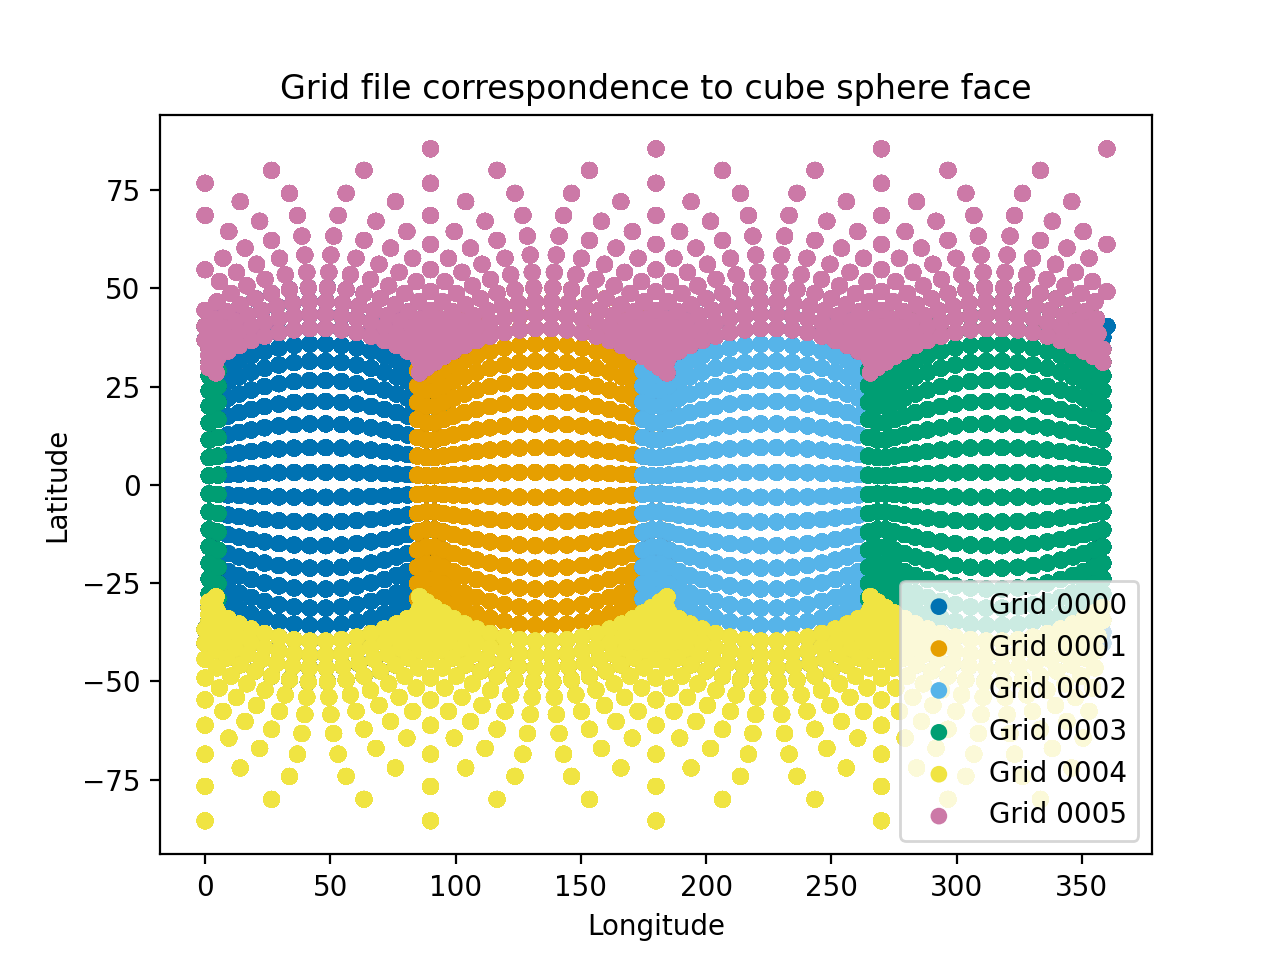
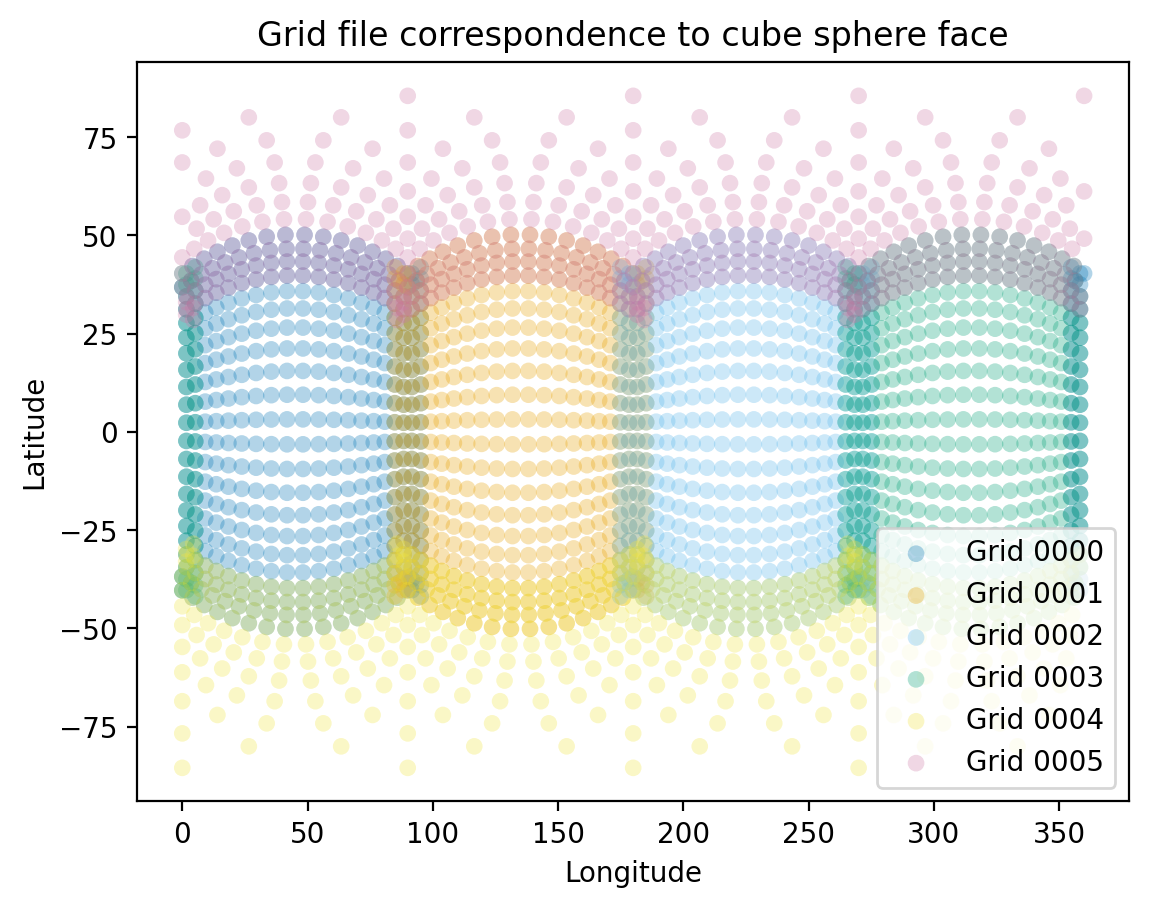
Decrease the opacity of plot_cube scatter to show overlap

diff --git a/scripts/plot_cube.py b/scripts/plot_cube.py
@@ -18,13 +18,14 @@ fig, ax = plt.subplots()
 
 for ifile, this_file in enumerate(files):
     f = netCDF4.Dataset(this_file)
-    lons = f.variables['Longitude'][:]*radians_to_degrees
-    lats = f.variables['Latitude'][:]*radians_to_degrees
-    ax.scatter(lons, lats, c=colors[ifile], edgecolors='none', label='Grid ' + str(ifile).zfill(4))
+    # Slice the longitude and latitude arrays to only include the lowest altitude
+    lons = f.variables['Longitude'][:, :, 0]*radians_to_degrees
+    lats = f.variables['Latitude'][:, :, 0]*radians_to_degrees
+    ax.scatter(lons, lats, c=colors[ifile], alpha=0.3, edgecolors='none', label='Grid ' + str(ifile).zfill(4))
     f.close()
 
 ax.legend()
 plt.title('Grid file correspondence to cube sphere face')
 plt.ylabel('Latitude')
 plt.xlabel('Longitude')
-plt.savefig('../_static/cube_scatter.png', dpi=200)
+plt.savefig('../_static/cube_scatter.png', dpi=200, transparent=True, bbox_inches='tight')

diff --git a/osse/overview.rst b/osse/overview.rst
@@ -18,14 +18,27 @@ Aaron's student Zehua wrote an interpolator within `interpolator <https://github
 Active development branch
 ~~~~~~~~~~~~~~~~~~~~~~~~~
 
-The development branch for the Aether model is far ahead of ``main`` branch.
+The ``develop`` branch for the Aether model is far ahead of ``main`` branch.
 It is accessible via the
 `AetherModel/Aether repository on Github <https://github.com/AetherModel/Aether/tree/develop>`_.
 
 Plotting the cube sphere
 ~~~~~~~~~~~~~~~~~~~~~~~~
 
-Using ``/scripts/plot_cube.py`` results in:
+The cube sphere grid files are grouped in sets of six, numbered as ``0000``, 
+``0001``, ``0002``, ``0003``, ``0004``, ``0005``.
+
+Using ``/scripts/plot_cube.py`` to plot the lowest level of latitudes and
+longitudes in this set of six grid files:
+
+- ``../restarts/restartOut.Cube.1member/grid_g0000.nc``
+- ``../restarts/restartOut.Cube.1member/grid_g0001.nc``
+- ``../restarts/restartOut.Cube.1member/grid_g0002.nc``
+- ``../restarts/restartOut.Cube.1member/grid_g0003.nc``
+- ``../restarts/restartOut.Cube.1member/grid_g0004.nc``
+- ``../restarts/restartOut.Cube.1member/grid_g0005.nc``
+
+results in this plot that shows the overlap of the faces:
 
 |scatter|
 
